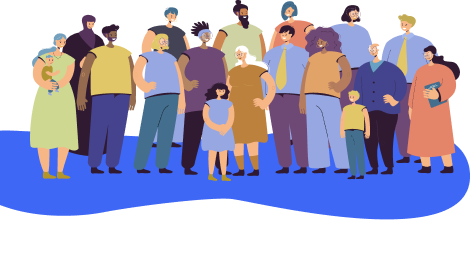
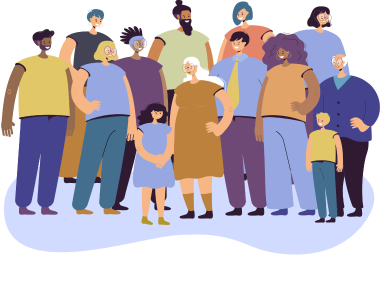
Add unfinished onboarding.

diff --git a/lib/src/features/login/view/language_picker.dart b/lib/src/features/login/view/language_picker.dart
@@ -1,0 +1,85 @@
+import 'package:flutter/material.dart';
+import 'package:flutter_bloc/flutter_bloc.dart';
+import 'package:gigaturnip/src/bloc/bloc.dart';
+import 'package:gigaturnip/src/theme/index.dart';
+
+class LanguagePicker extends StatelessWidget {
+  const LanguagePicker({super.key});
+
+  @override
+  Widget build(BuildContext context) {
+    final borderRadius = BorderRadius.circular(20);
+    final theme = Theme.of(context).colorScheme;
+
+    final kg = Image.asset('assets/images/kg.png', height: 20);
+    final en = Image.asset('assets/images/en.png', height: 20);
+    final ru = Image.asset('assets/images/ru.png', height: 20);
+
+    return Container(
+      width: 125,
+      decoration: BoxDecoration(color: Colors.white, borderRadius: borderRadius),
+      child: DropdownButtonFormField<String>(
+        padding: const EdgeInsets.symmetric(horizontal: 15),
+        style: TextStyle(fontWeight: FontWeight.w500, fontSize: 16, color: theme.neutral30),
+        borderRadius: borderRadius,
+        dropdownColor: Colors.white,
+        decoration: const InputDecoration(
+          focusedBorder: InputBorder.none,
+          enabledBorder: InputBorder.none,
+        ),
+        isDense: true,
+        icon: Icon(Icons.keyboard_arrow_down, color: theme.neutral30),
+        value: context.read<LocalizationBloc>().state.locale.languageCode.split('_').first,
+        onChanged: (locale) {
+          if (locale != null) {
+            context.read<LocalizationBloc>().add(ChangeLocale(Locale(locale)));
+          }
+        },
+        items: [
+          DropdownMenuItem(
+            value: 'en',
+            child: Row(
+              children: [
+                Container(
+                  margin: const EdgeInsets.only(right: 16),
+                  constraints: const BoxConstraints(maxWidth: 30),
+                  height: 20,
+                  child: en,
+                ),
+                const Text('EN'),
+              ],
+            ),
+          ),
+          DropdownMenuItem(
+            value: 'ky',
+            child: Row(
+              children: [
+                Container(
+                  margin: const EdgeInsets.only(right: 16),
+                  constraints: const BoxConstraints(maxWidth: 30),
+                  height: 20,
+                  child: kg,
+                ),
+                const Text('KG'),
+              ],
+            ),
+          ),
+          DropdownMenuItem(
+            value: 'ru',
+            child: Row(
+              children: [
+                Container(
+                  margin: const EdgeInsets.only(right: 16),
+                  constraints: const BoxConstraints(maxWidth: 30),
+                  height: 20,
+                  child: ru,
+                ),
+                const Text('RU'),
+              ],
+            ),
+          ),
+        ],
+      ),
+    );
+  }
+}

diff --git a/lib/src/features/login/view/onboarding.dart b/lib/src/features/login/view/onboarding.dart
@@ -1,0 +1,52 @@
+import 'package:flutter/material.dart';
+import 'package:gigaturnip/src/theme/index.dart';
+
+import '../../../widgets/widgets.dart';
+import 'language_picker.dart';
+
+class OnBoarding extends StatelessWidget {
+  final void Function() onContinue;
+
+  const OnBoarding({super.key, required this.onContinue});
+
+  @override
+  Widget build(BuildContext context) {
+    final theme = Theme.of(context).colorScheme;
+
+    return Padding(
+      padding: const EdgeInsets.all(24.0),
+      child: Column(
+        mainAxisAlignment: MainAxisAlignment.spaceBetween,
+        children: [
+          const Row(children: [LanguagePicker()]),
+          Image.asset('assets/images/people.png'),
+          Column(
+            children: [
+              Text(
+                'Присоединяйтесь к социальным кампаниям',
+                style: TextStyle(
+                  fontWeight: FontWeight.w500,
+                  fontSize: 24,
+                  color: theme.isLight ? theme.neutral30 : theme.neutral90,
+                ),
+                textAlign: TextAlign.center,
+              ),
+              const SizedBox(height: 20),
+              Text(
+                'Здесь люди объединяются и решают общественно значимые проблемы вместе. Вы можете присоединиться к интересующим вас кампаниям или даже создать свою!',
+                style: TextStyle(
+                  fontWeight: FontWeight.w400,
+                  fontSize: 16,
+                  color: theme.isLight ? theme.neutral30 : theme.neutral90,
+                ),
+                textAlign: TextAlign.center,
+              ),
+              const SizedBox(height: 40),
+              SignUpButton(onPressed: onContinue),
+            ],
+          )
+        ],
+      ),
+    );
+  }
+}

diff --git a/lib/src/features/login/bloc/login_bloc.dart b/lib/src/features/login/bloc/login_bloc.dart
@@ -5,6 +5,8 @@ import 'package:bloc/bloc.dart';
 import 'package:equatable/equatable.dart';
 import 'package:firebase_auth/firebase_auth.dart';
 import 'package:flutter/foundation.dart';
+import 'package:gigaturnip/src/utilities/constants.dart';
+import 'package:shared_preferences/shared_preferences.dart';
 
 part 'login_event.dart';
 
@@ -12,14 +14,22 @@ part 'login_state.dart';
 
 class LoginBloc extends Bloc<LoginEvent, LoginState> {
   final AuthenticationRepository _authenticationRepository;
+  final SharedPreferences _sharedPreferences;
 
-  LoginBloc({required AuthenticationRepository authenticationRepository})
-      : _authenticationRepository = authenticationRepository,
-        super(LoginInitial()) {
+  LoginBloc({
+    required AuthenticationRepository authenticationRepository,
+    required SharedPreferences sharedPreferences,
+  })  : _authenticationRepository = authenticationRepository,
+        _sharedPreferences = sharedPreferences,
+        super(
+          LoginInitial(
+              firstTime: sharedPreferences.getBool(Constants.sharedPrefFirstTimeKey) ?? true),
+        ) {
     on<LoginWithAuthProvider>(_onLoginWithAuthProvider);
     on<SendOTP>(_onSendOTP);
     on<ConfirmOTP>(_onConfirmOTP);
     on<CompleteVerification>(_onCompleteVerification);
+    on<CloseOnBoarding>(_onCloseOnBoarding);
   }
 
   Future<void> _login(AuthProvider provider) async {
@@ -76,5 +86,10 @@ class LoginBloc extends Bloc<LoginEvent, LoginState> {
       }
       emit(LoginFailed(e.toString()));
     }
+  }
+
+  void _onCloseOnBoarding(CloseOnBoarding event, Emitter<LoginState> emit) {
+    _sharedPreferences.setBool(Constants.sharedPrefFirstTimeKey, false);
+    emit(const LoginInitial(firstTime: false));
   }
 }

diff --git a/lib/src/features/login/view/login_page.dart b/lib/src/features/login/view/login_page.dart
@@ -3,11 +3,12 @@ import 'package:firebase_auth/firebase_auth.dart';
 import 'package:flutter/foundation.dart';
 import 'package:flutter/material.dart';
 import 'package:flutter_bloc/flutter_bloc.dart';
-
 import 'package:gigaturnip/src/features/login/widget/login_panel.dart';
 import 'package:gigaturnip/src/theme/index.dart';
+import 'package:shared_preferences/shared_preferences.dart';
 
 import '../bloc/login_bloc.dart';
+import 'onboarding.dart';
 import 'otp_verification.dart';
 
 class LoginPage extends StatelessWidget {
@@ -17,6 +18,7 @@ class LoginPage extends StatelessWidget {
   Widget build(BuildContext context) {
     return BlocProvider(
       create: (_) => LoginBloc(
+        sharedPreferences: context.read<SharedPreferences>(),
         authenticationRepository: context.read<AuthenticationRepository>(),
       ),
       child: const LoginView(),
@@ -97,6 +99,13 @@ class _LoginViewState extends State<LoginView> {
               );
             }
             if (context.isSmall) {
+              if (state is LoginInitial && state.firstTime) {
+                return OnBoarding(
+                  onContinue: () {
+                    context.read<LoginBloc>().add(CloseOnBoarding());
+                  },
+                );
+              }
               return LoginPanel(
                 padding: const EdgeInsets.symmetric(horizontal: 24, vertical: 69),
                 onChange: _onChange,

diff --git a/lib/main.dart b/lib/main.dart
@@ -39,6 +39,9 @@ Future<void> main() async {
         RepositoryProvider<GigaTurnipApiClient>(
           create: (context) => gigaTurnipApiClient,
         ),
+        RepositoryProvider<SharedPreferences>(
+          create: (context) => sharedPreferences,
+        ),
       ],
       child: MultiBlocProvider(
         providers: [

diff --git a/lib/src/features/login/bloc/login_event.dart b/lib/src/features/login/bloc/login_event.dart
@@ -4,6 +4,11 @@ abstract class LoginEvent extends Equatable {
   const LoginEvent();
 }
 
+class CloseOnBoarding extends LoginEvent {
+  @override
+  List<Object> get props => [];
+}
+
 class LoginWithAuthProvider extends LoginEvent {
   final AuthProvider provider;
 

diff --git a/lib/src/utilities/constants.dart b/lib/src/utilities/constants.dart
@@ -4,4 +4,5 @@ class Constants {
   // Shared Preferences
   static const String sharedPrefLocaleKey = 'app_locale';
   static const String sharedPrefThemeKey = 'app_theme';
+  static const String sharedPrefFirstTimeKey = 'app_first_login';
 }

diff --git a/lib/src/features/login/bloc/login_state.dart b/lib/src/features/login/bloc/login_state.dart
@@ -10,6 +10,10 @@ abstract class LoginState extends Equatable {
 }
 
 class LoginInitial extends LoginState {
+  final bool firstTime;
+
+  const LoginInitial({required this.firstTime});
+
   @override
   List<Object> get props => [];
 }
